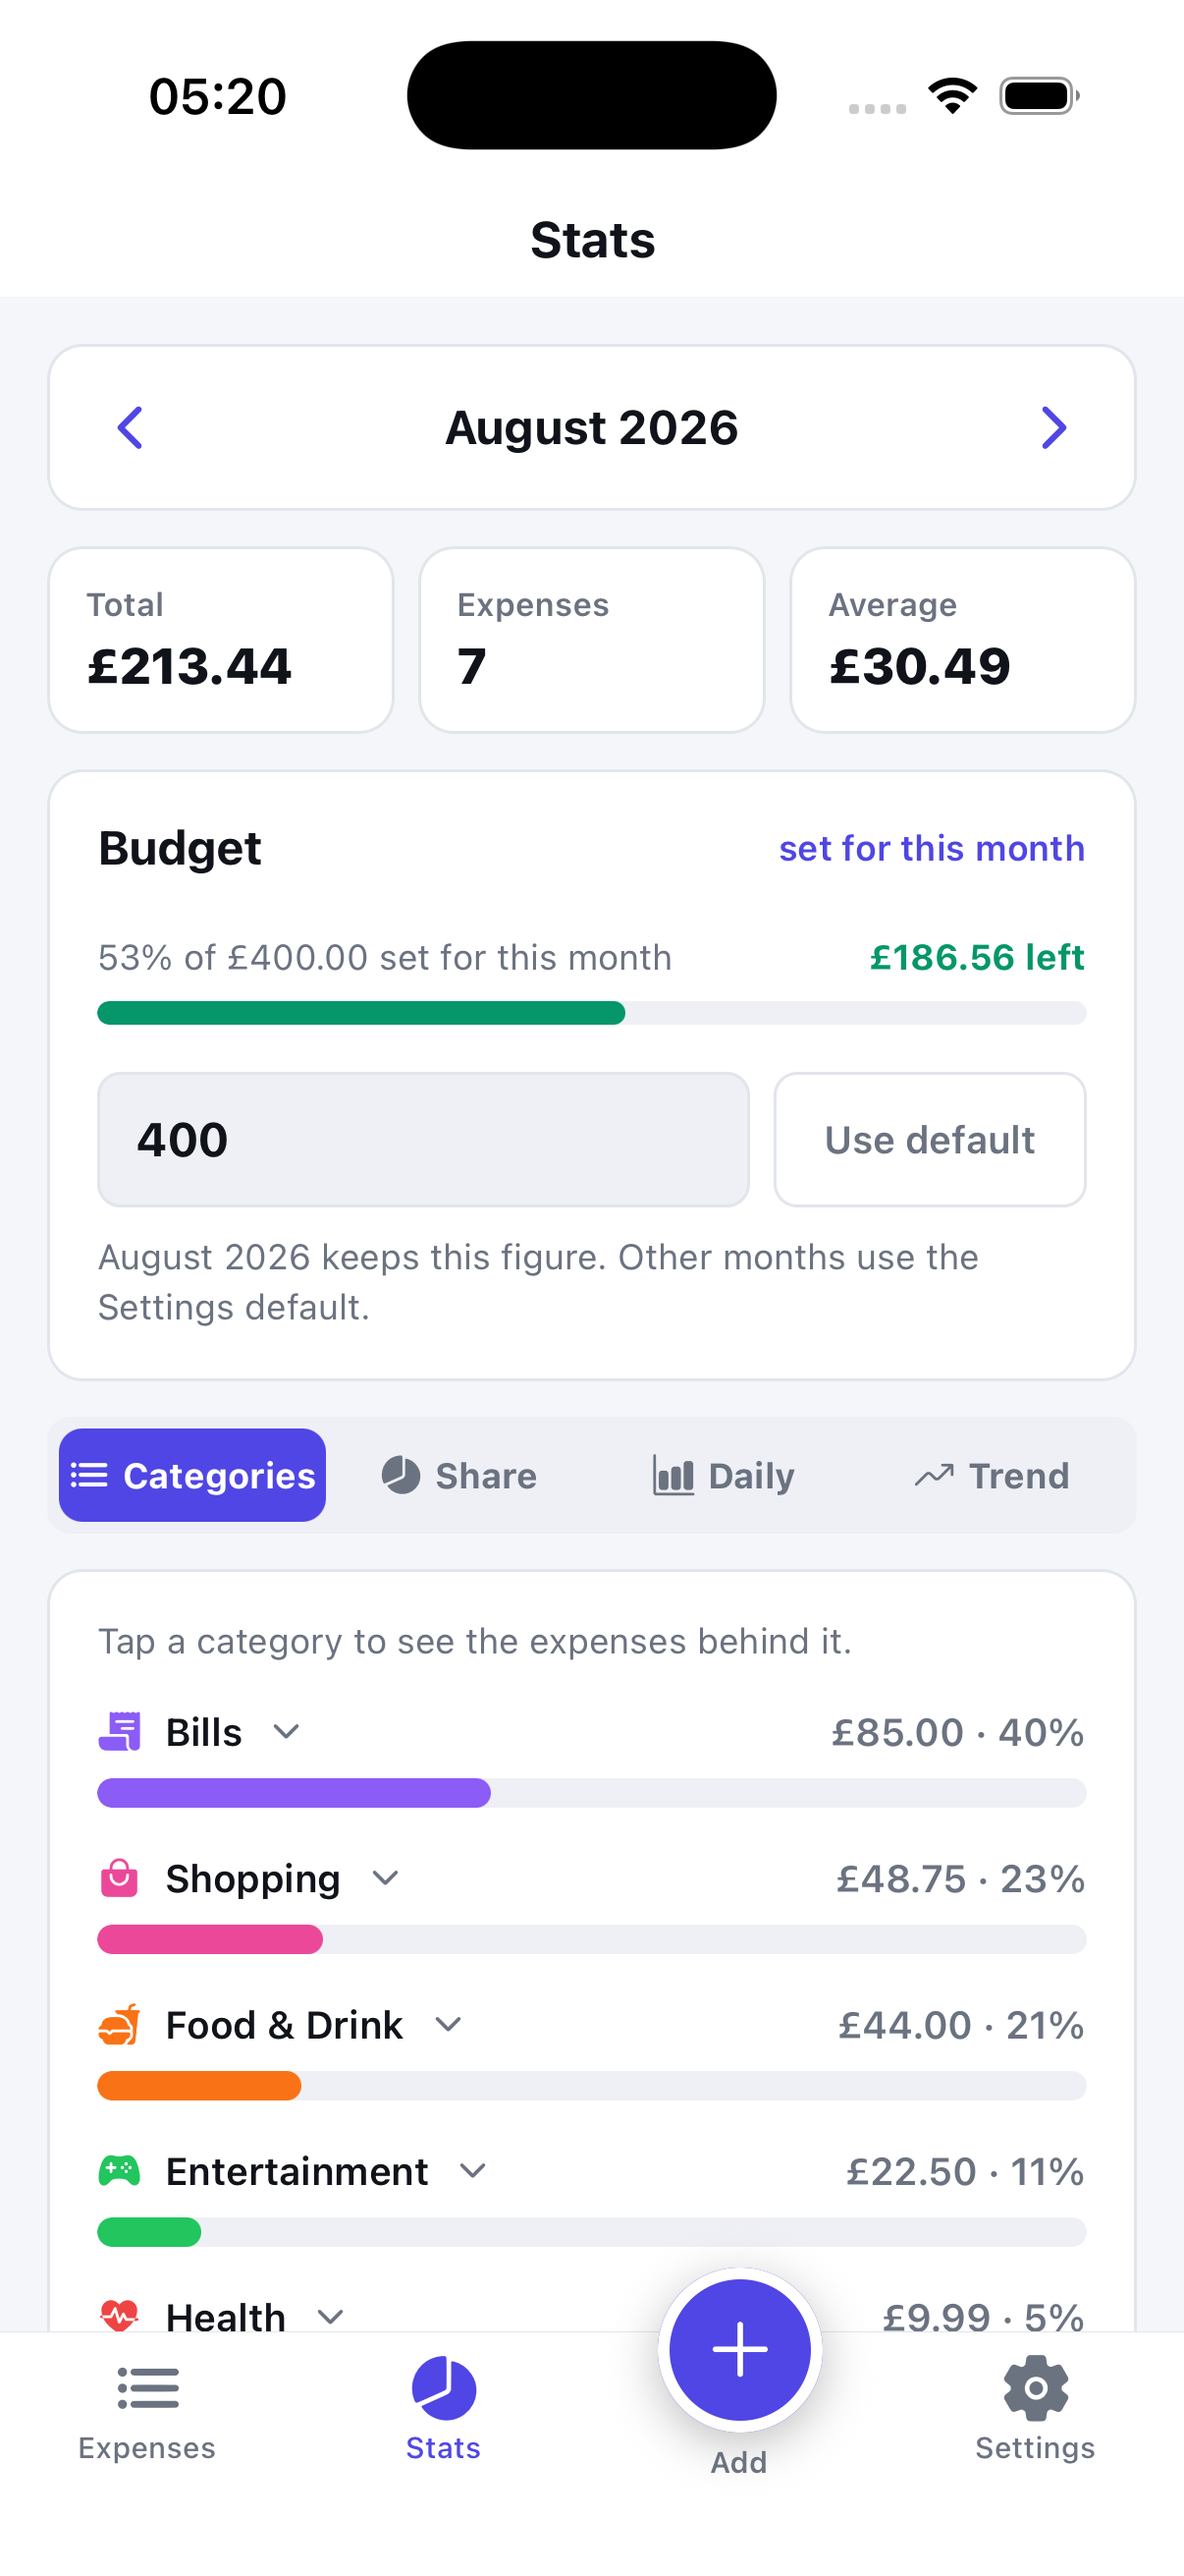
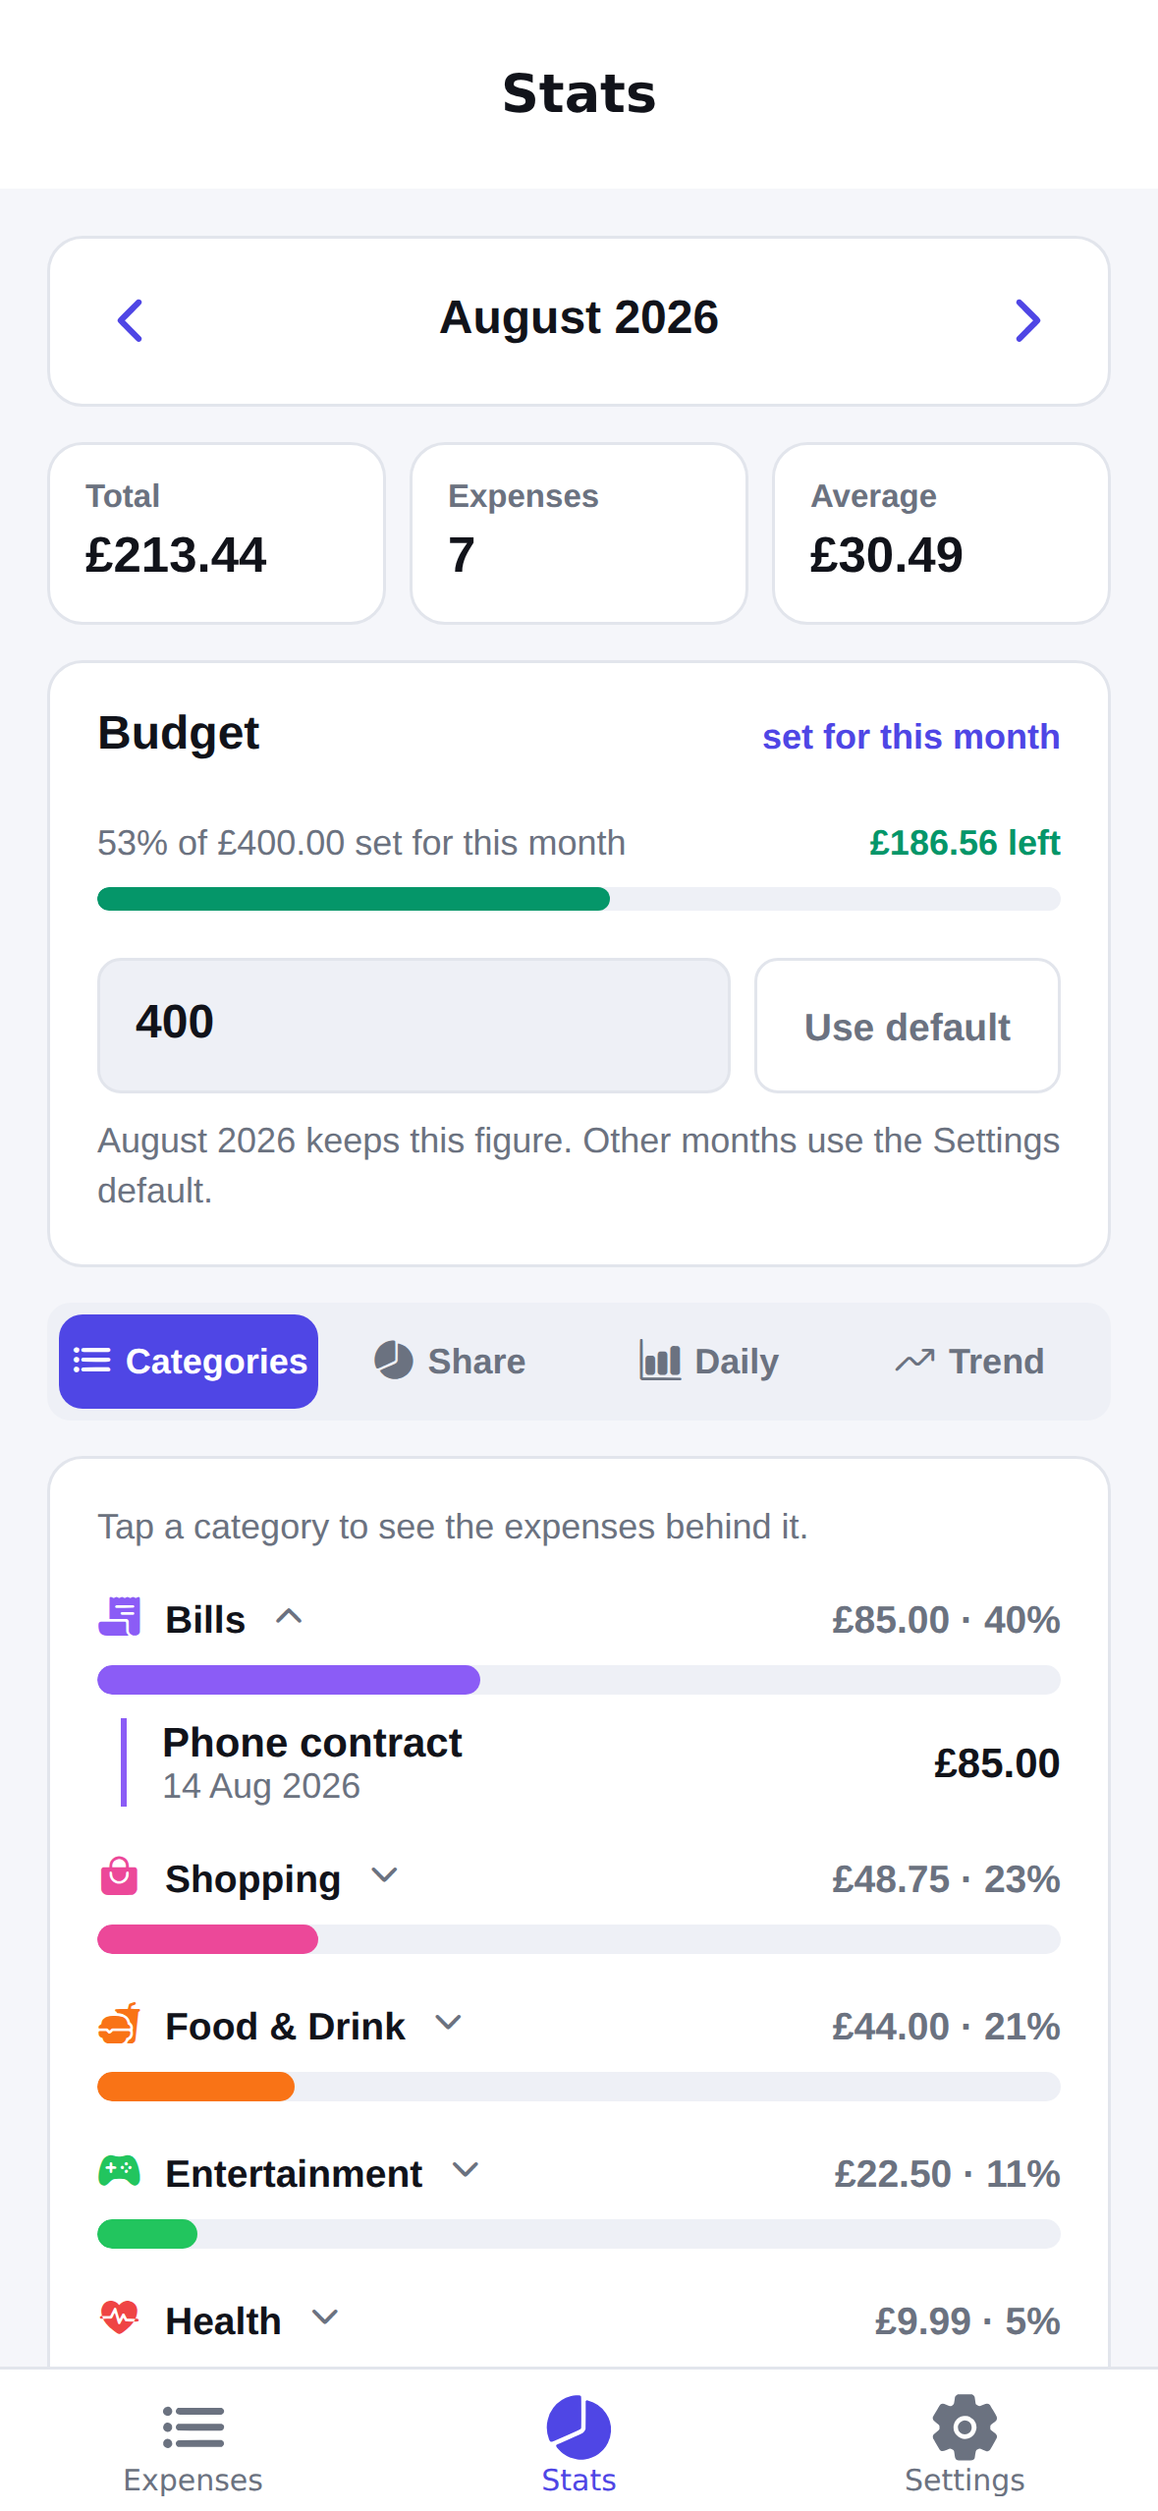
docs: reworked the readme and recorded the new defects
The readme gains a "How it works" section that explains the navigation,
the two contexts, the persistence rule and the currency handling. The
clone step names the repository correctly, the screenshot table gains the
daily chart, and the reflection describes the persistence fault that the
last read of the code found.

The test report records the four defects found before submission, and
says how the provider now protects a failed read.

Every screenshot is retaken. Two comments that still described the old
tab bar layout are corrected.

diff --git a/app/expense/new.js b/app/expense/new.js
@@ -5,16 +5,14 @@ import ScreenContainer from '../../src/components/ScreenContainer';
 import { useExpenses } from '../../src/context/ExpensesContext';
 
 /**
- * Add screen — a stack route that opens as a modal from the raised button of
- * the tab bar.
+ * Add screen — a stack route that opens as a modal from the Add expense button
+ * on the Expenses tab.
  *
  * It sits outside the (tabs) group on purpose. A modal that belongs to the
  * root stack covers the tab bar, which is what makes adding an expense feel
  * like an action rather than a fourth place to browse.
  *
- * The path is /expense/new, next to /expense/[id] for edit. A route named
- * /add would collide with the Add slot of the tab bar, because a group such
- * as (tabs) does not appear in the path.
+ * The path is /expense/new, next to /expense/[id] for edit.
  */
 export default function AddExpenseScreen() {
   const router = useRouter();

diff --git a/src/components/ExpenseForm.js b/src/components/ExpenseForm.js
@@ -23,7 +23,7 @@ import { formatDate, fromDateKey, parseAmount, parseDate, toDateKey } from '../u
 /**
  * Shared add/edit form.
  *
- * Both the Add tab and the Edit screen render this same component, so the
+ * Both the Add screen and the Edit screen render this same component, so the
  * validation rules only exist in one place.
  */
 export default function ExpenseForm({ initialValue, submitLabel, onSubmit, onDelete }) {

diff --git a/README.md b/README.md
@@ -2,7 +2,7 @@
 
 Spendly is an offline expense tracker for Android and iOS, built with React Native
 and Expo. You record what you spend, sort it into categories, and see where your
-money goes each month against a budget you set. The app has no backend and no
+money goes each month against a budget you set. There is no backend and no
 account: every expense stays in the storage of your own phone.
 
 ---
@@ -14,7 +14,7 @@ v24.10.0. There is no API key, no backend and no environment file to set up.
 
 ```bash
 git clone <repository-url>
-cd mobile
+cd spendly
 npm install
 npx expo start
 ```
@@ -28,6 +28,9 @@ To run the tests:
 ```bash
 npm test
 ```
+
+The full test report, including the manual test runs, is in
+[TESTING.md](TESTING.md).
 
 ---
 
@@ -85,7 +88,7 @@ npm test
   </tr>
   <tr>
     <td align="center">
-      <img src="assets/screenshots/stats.png" width="250" alt="The statistics screen, category view"><br>
+      <img src="assets/screenshots/stats.png" width="250" alt="The statistics screen, category view with one category open"><br>
       <b>Stats — Categories</b><br>
       The budget for the month, and bars that open to show the expenses behind them.
     </td>
@@ -97,24 +100,57 @@ npm test
   </tr>
   <tr>
     <td align="center">
+      <img src="assets/screenshots/stats-daily.png" width="250" alt="The statistics screen, daily bar chart"><br>
+      <b>Stats — Daily</b><br>
+      One bar for every day of the month, with the peak figure and the busiest day.
+    </td>
+    <td align="center">
       <img src="assets/screenshots/stats-trend.png" width="250" alt="The statistics screen, trend line"><br>
       <b>Stats — Trend</b><br>
       Spending over the six months that end with the selected month.
     </td>
+  </tr>
+  <tr>
     <td align="center">
       <img src="assets/screenshots/settings.png" width="250" alt="The settings screen"><br>
       <b>Settings</b><br>
       Theme, currency, the default budget and the clear-all action.
     </td>
-  </tr>
-  <tr>
-    <td align="center" colspan="2">
+    <td align="center">
       <img src="assets/screenshots/empty-state.png" width="250" alt="The empty state of the expenses list"><br>
       <b>Empty state</b><br>
       What a new user sees before the first expense.
     </td>
   </tr>
 </table>
+
+---
+
+## How it works
+
+**Navigation.** `app/_layout.js` mounts both providers and a root stack. Inside
+it, `app/(tabs)/_layout.js` holds the three tabs. Because the add and edit
+screens belong to the root stack and not to the tab group, they open as modals
+over the tab bar: adding an expense is an action, not a fourth place to browse.
+
+**State.** The expense list lives in `ExpensesContext`, which drives every change
+through the pure reducer in `src/context/expensesReducer.js`. The reducer keeps
+the list sorted newest first, so no screen has to sort on render. Settings sit in
+their own context because they change far less often, and keeping them apart
+stops a currency change from re-rendering the whole list through one value
+object.
+
+**Persistence.** Each context reads its key from AsyncStorage once on mount and
+writes back after every change. The write is held back until that first read has
+finished, so a slow or failed read can never save an empty list over real data.
+`src/utils/storage.js` wraps every call in try/catch and returns an `ok` flag
+instead of throwing.
+
+**Currency.** An expense stores the amount as it was typed and the currency it
+was typed in. Nothing is rewritten when the user switches currency; the
+conversion happens on the way to the screen, in `src/constants/rates.js`. Budgets
+are held in one base currency for the same reason, so a budget of 400 keeps its
+value rather than its digits.
 
 ---
 
@@ -206,16 +242,19 @@ reducer also paid off twice: the screens stay simple, and I could test every
 state change without a renderer or a storage mock.
 
 Persistence looked like the easy part and was the part I trusted least. Writing
-to storage on every change is simple, but I had to be careful not to write during
-the first load, because that would save an empty list over real data. Testing it
-properly meant a force-quit and a restart, not a reload. A reload keeps the
-process alive and proves nothing.
+to storage on every change is simple, but the write has to wait for the first
+read to finish. I got that half right at first: I held the write back while the
+read was still running, but not when the read failed, which left a path where an
+unreadable file could be saved over with an empty list. Testing it properly meant
+a force-quit and a restart, not a reload. A reload keeps the process alive and
+proves nothing.
 
-Testing found two real defects. A unit test showed that `parseAmount` stripped the
-minus sign before the "more than zero" check, so `-4` became `4`. Manual testing
-showed that a date error stayed on screen after I corrected the date. Both were
-one-line fixes, and neither would have shown up if I had only clicked through the
-happy path.
+Testing found real defects that clicking through the happy path never would have.
+A unit test showed that `parseAmount` stripped the minus sign before the "more
+than zero" check, so `-4` became `4`. Manual testing showed that a date error
+stayed on screen after I corrected the date. Reading the code again at the end
+found a migration that could never run, because the block that filled in missing
+settings supplied the very version number the check was looking for.
 
 File-based routing caught me a second time when I moved the add form out of the
 tabs and into a modal. I left a placeholder route at `app/(tabs)/add.js` and put

diff --git a/TESTING.md b/TESTING.md
@@ -71,9 +71,15 @@ target the rejection cases more than the happy path.
 | A tap on the budget field pinned the month to the default | The field commits on blur, and it already held the default figure, so a tap and a tap away wrote that figure as an override | The commit stops when the month follows the default and the figure did not change |
 | The rufiyaa sign appeared after the digits | Thaana Raa is a right-to-left letter, so it turned the whole line right-to-left | The sign is now drawn with SVG, so no letter and no text direction is involved |
 | The budget did not convert with the expenses | Budgets were plain numbers with no currency, so 400 stayed 400 after a switch and no longer meant the same money | Budgets are held in one base currency and converted for display, with a one-time migration of saved settings |
+| A failed read of the saved expenses could save an empty list over the real one | The write-back effect only waited for the initial load to finish. A read that failed also ended the load, so the effect ran with an empty list in memory and wrote it | The provider will not write until the saved list has been read, or until the user changes something on purpose |
+| The one-time migration of saved budgets could never run | The load fills in any missing setting from the defaults before the version check, and the defaults carry the current version number, so an older saved file always looked current | The version is read from the saved file itself, before the defaults are merged in |
+| The "Use default" button sat outside its card on a narrower screen | The budget field beside it would not shrink below the width of its own text | The field is allowed to shrink, so the row fits the card at any width |
+| The month labels under the trend line did not sit under their own points | The line placed its points from edge to edge while the labels were spread by the layout, so the two never matched | The chart gives each month an equal column and puts the point in the middle of it, and the labels use the same columns |
 
-The first defect came from the unit tests. The others came from the manual
-tests.
+The first defect came from the unit tests. The next batch came from the manual
+tests. The last four came from reading the whole codebase again before
+submission, and from checking each screen at a narrower screen width than the
+one the manual tests ran on.
 
 ## A note on Expo Go
 
@@ -88,3 +94,8 @@ project clears it every time.
 `ok` flag. A read failure gives an empty list instead of a crash on launch, and
 the app shows an error banner. The provider also filters the loaded array, so a
 damaged storage value cannot put a broken record into the list.
+
+An empty list in memory after a failed read is not the same thing as an empty
+list the user asked for, so the provider will not write one back. Saving resumes
+as soon as the read succeeds, or as soon as the user adds, edits, deletes or
+clears something themselves.
